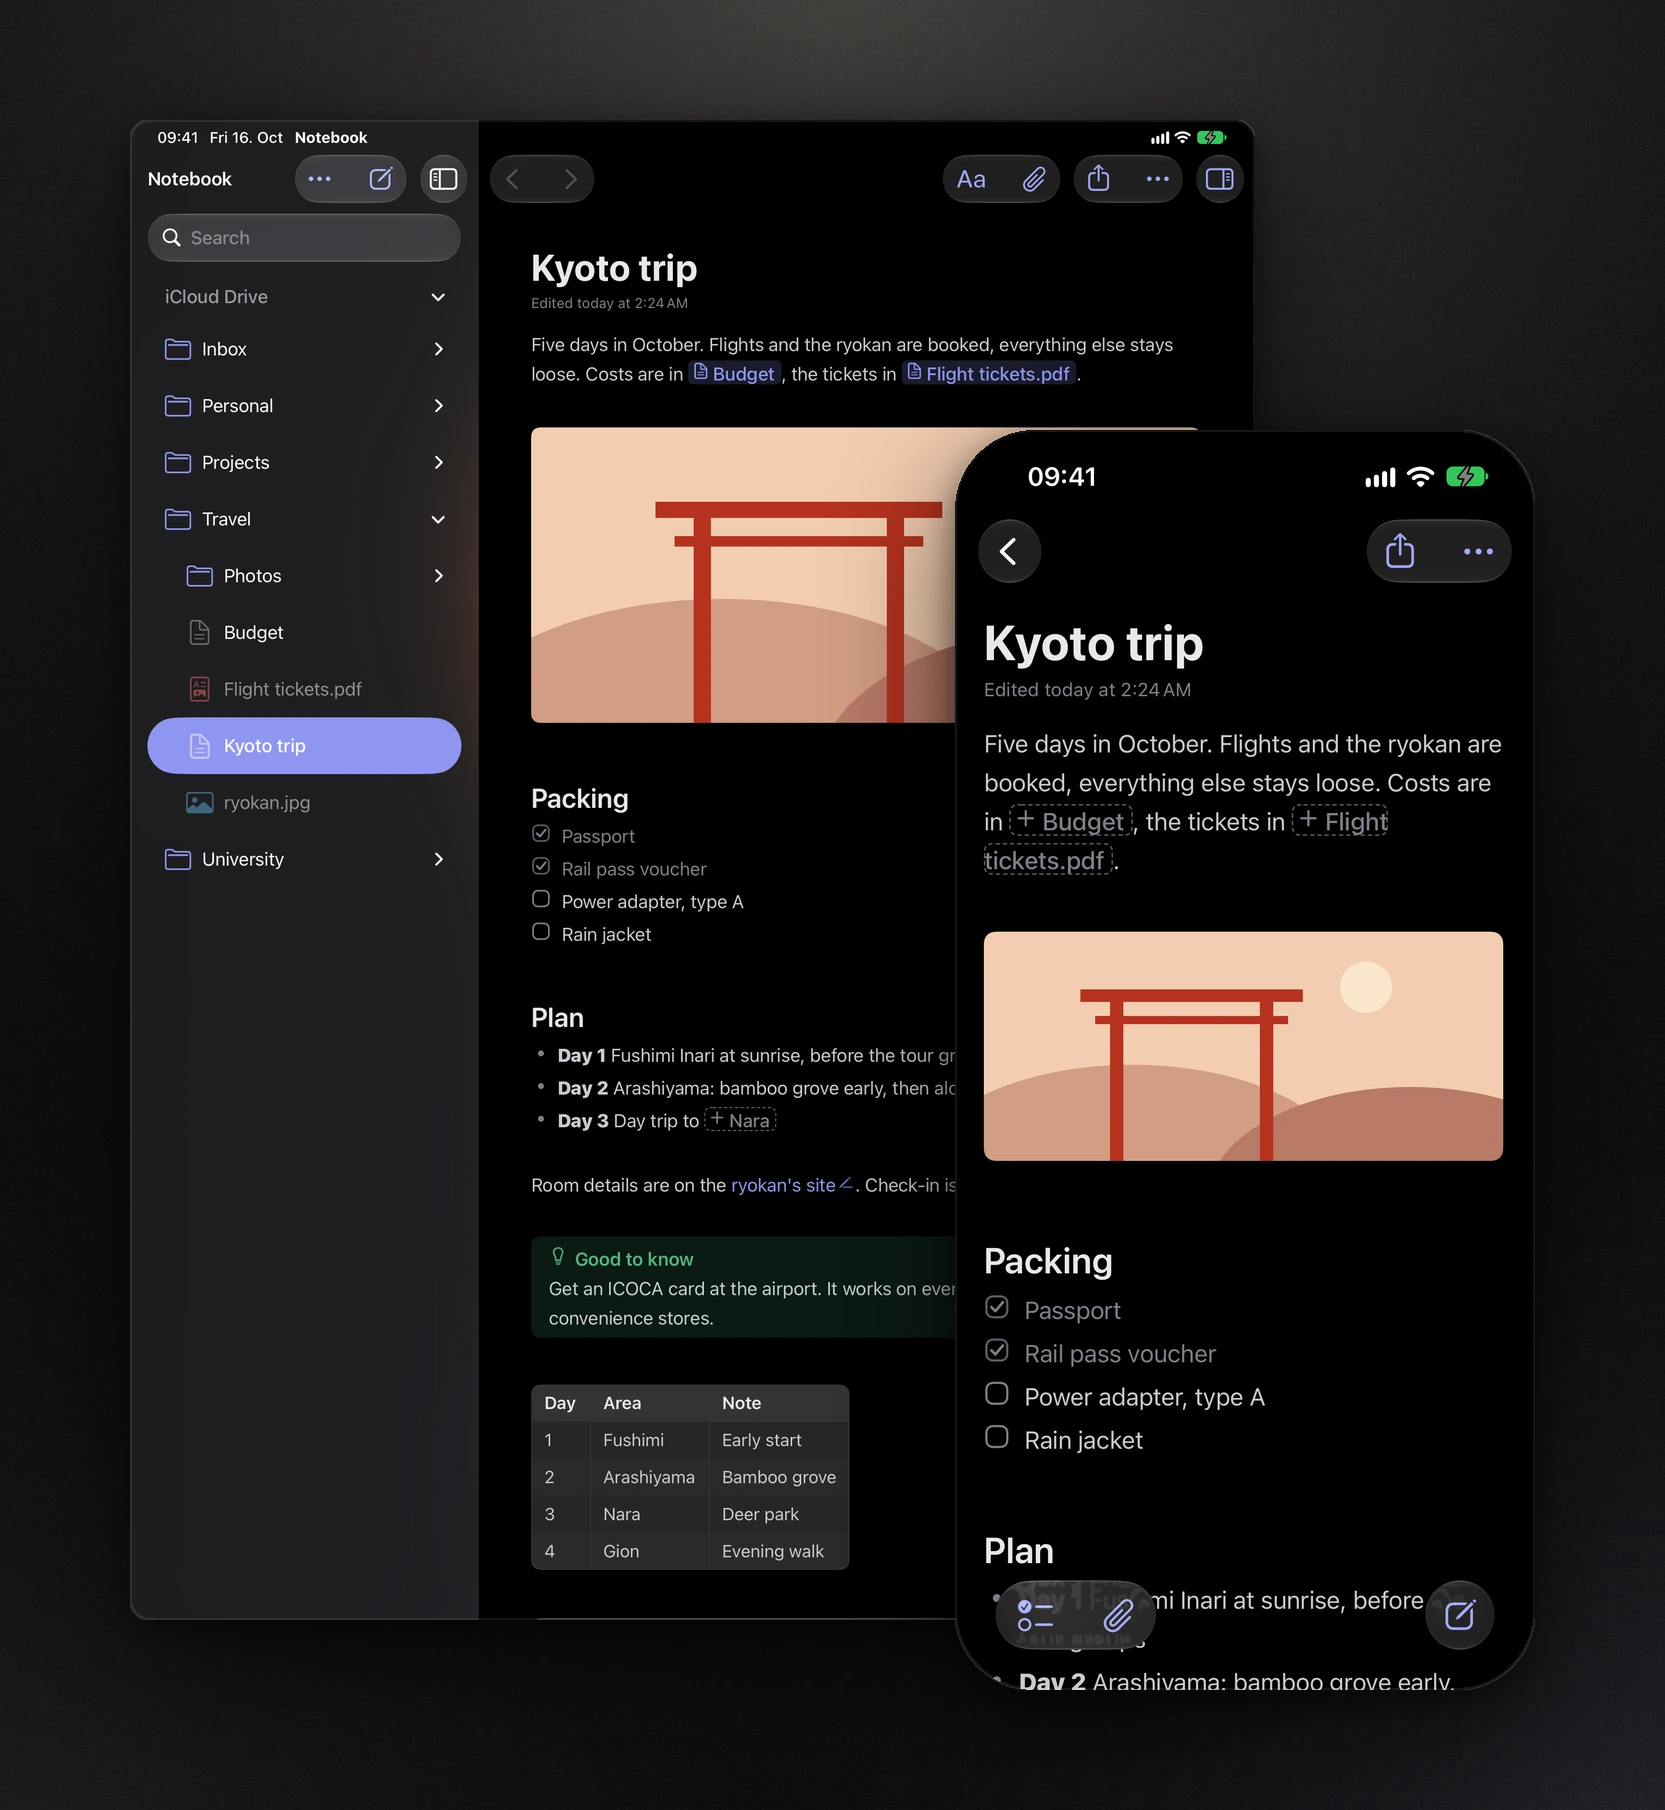
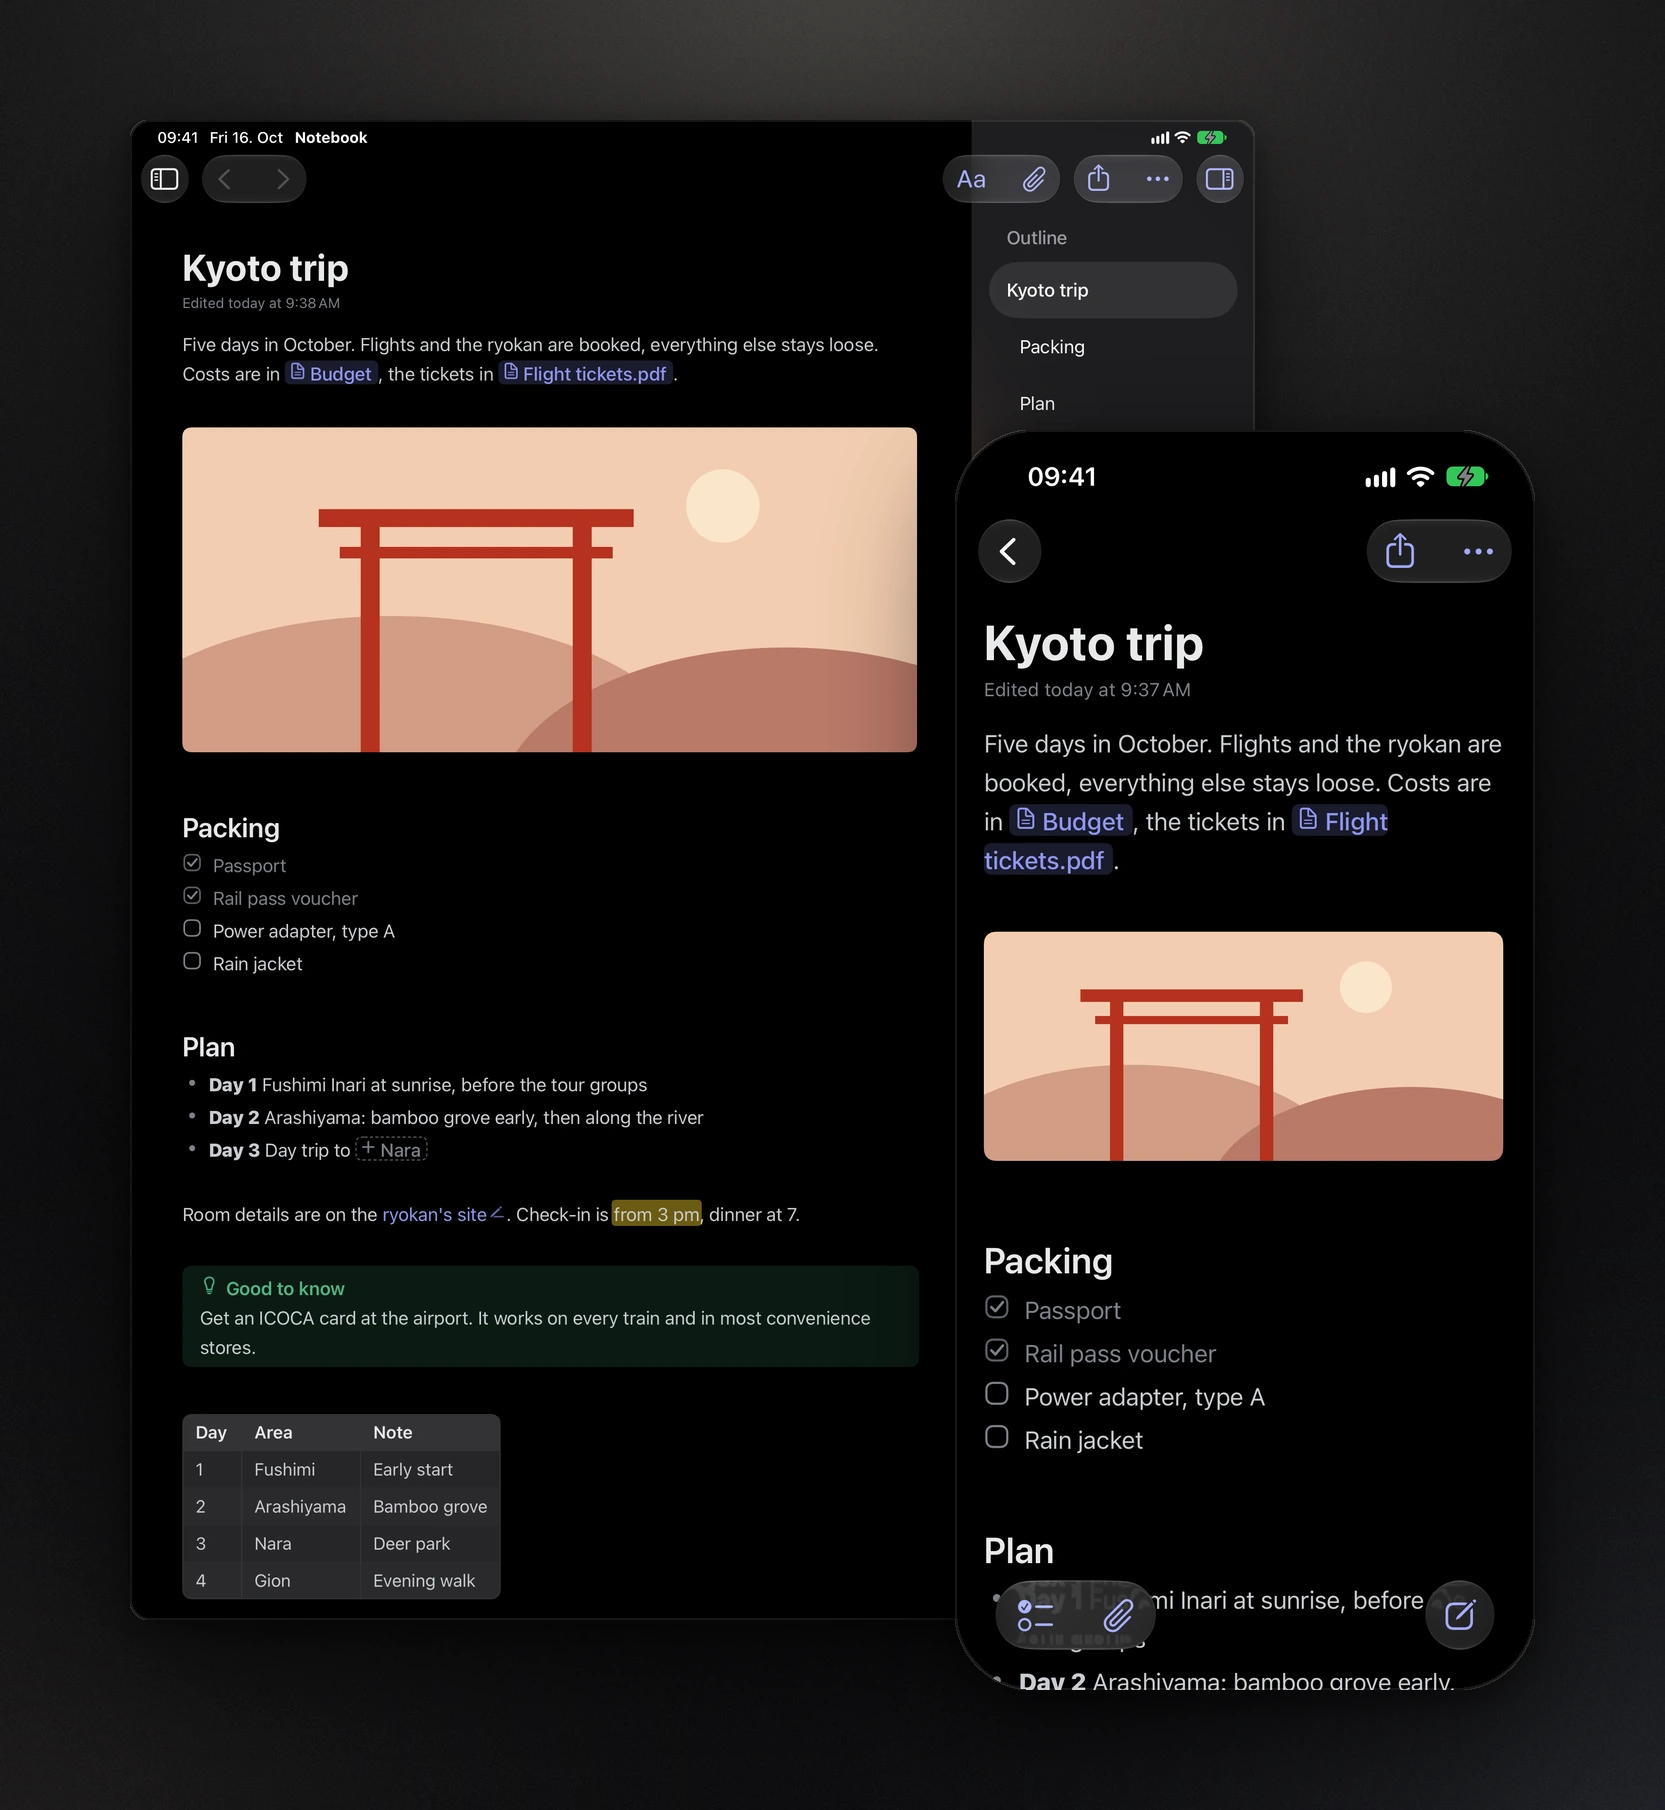
iPad: the sidebar lies over the page in portrait on the 13-inch iPad too
With the sidebar and the outline both showing, the note on a 13-inch iPad in portrait was
left with a column as narrow as a phone's. The sidebar now sits beside the note only from
1100 points wide (an iPad in landscape), as in Notes and Mail. The README picture shows the
iPad's note with its outline instead of the sidebar, as it now looks in portrait.

diff --git a/Packages/NotebookKit/Sources/NotebookKit/UI/iOS/PadBrowser.swift b/Packages/NotebookKit/Sources/NotebookKit/UI/iOS/PadBrowser.swift
@@ -23,7 +23,9 @@ struct PadBrowser: View {
                 splitView.navigationSplitViewStyle(.prominentDetail)
             }
         }
-        .onGeometryChange(for: Bool.self) { $0.size.width >= 1000 } action: { isWide = $0 }
+        // Room for the sidebar, a column of text and the outline: an iPad in landscape. In portrait, even the 13-inch
+        // one's, the text would get too narrow with all three.
+        .onGeometryChange(for: Bool.self) { $0.size.width >= 1100 } action: { isWide = $0 }
         .modifier(FileAlerts(workspace: workspace, newFolderIn: $newFolderIn))
         .sheet(isPresented: $showsSettings) { TouchSettings(workspace: workspace) }
         .folderImporter(isPresented: $addsLocation, workspace: workspace)

diff --git a/Tools/readme-images/build.py b/Tools/readme-images/build.py
@@ -101,7 +101,7 @@ for theme in [] if only == "devices" else ["dark", "light"]:
     webp(search(theme), f"search-{theme}")
 
 def devices(theme):
-    """The iPad with its sidebar and the note, and the iPhone with the note, in front of it at the lower right."""
+    """The iPad with the note and its outline, and the iPhone with the note, in front of it at the lower right."""
     ipad = Image.open(f"{raw}/ipad-{theme}.png").convert("RGBA")
     iphone = Image.open(f"{raw}/iphone-{theme}.png").convert("RGBA")
     # The screens' own corners: 18 points on the iPad at 2x, 55 on the iPhone at 3x.

diff --git a/README.md b/README.md
@@ -148,7 +148,7 @@ the sidebar. A window as narrow as a phone gets the iPhone's screens.
 
 <picture>
   <source media="(prefers-color-scheme: dark)" srcset="Design/screenshots/devices-dark.webp">
-  <img alt="Notebook on an iPad, with the folders of iCloud Drive in the sidebar and the note Kyoto trip next to it, and on an iPhone in front of it, with the same note on a screen of its own and a checklist and attachment button at the bottom" src="Design/screenshots/devices-light.webp">
+  <img alt="Notebook on an iPad, with the note Kyoto trip and its outline next to it, and on an iPhone in front of it, with the same note on a screen of its own and a checklist and attachment button at the bottom" src="Design/screenshots/devices-light.webp">
 </picture>
 
 ## What it does
